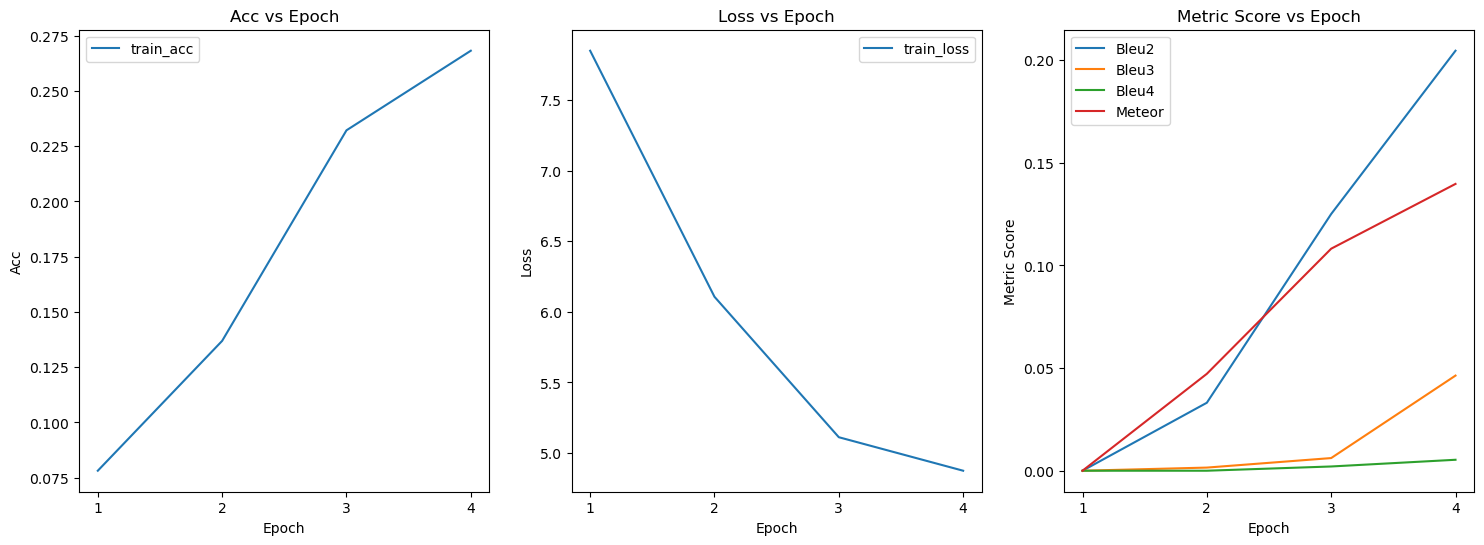
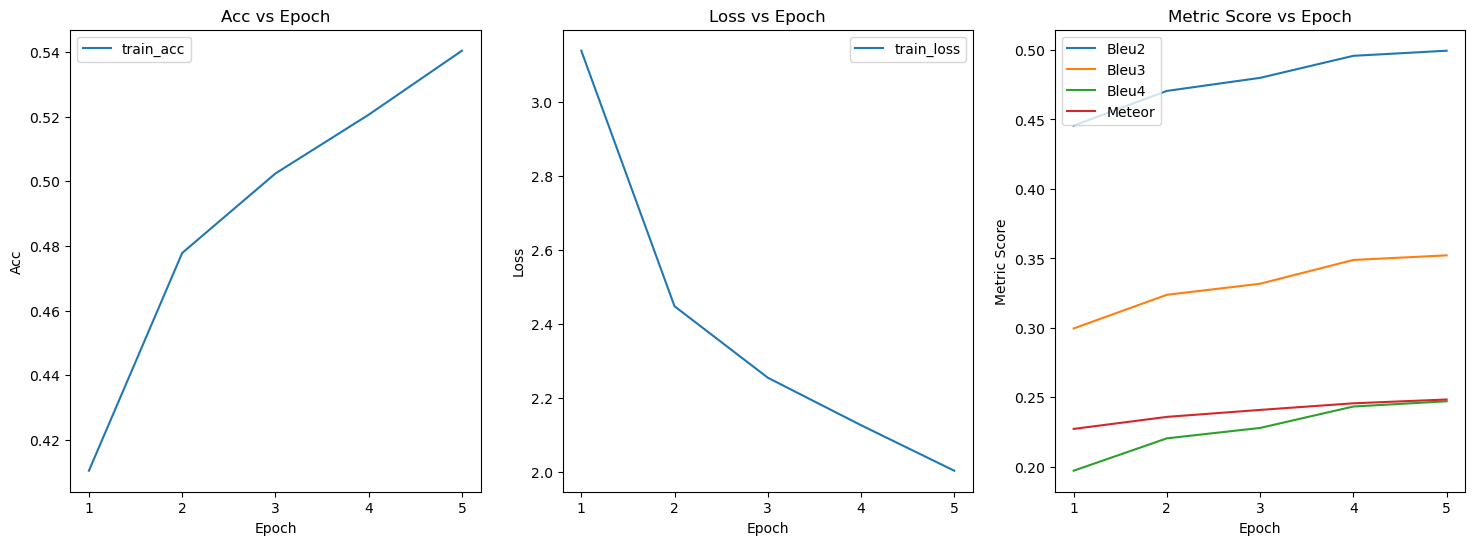
added evaluate code

diff --git a/train.py b/train.py
@@ -54,7 +54,7 @@ def plot_graphs(num_epochs, train_losses, train_acc, bleu2, bleu3, bleu4,val_met
     plt.savefig(fname, bbox_inches='tight')
     plt.show()
 
-def train_epoch(train_loader,device,encoder,decoder,enc_optimizer,dec_optimizer,criterion,vocab,epoch,embed_optimizer=None,enc_scheduler=None,dec_scheduler=None,view_train_captions=False):
+def train_epoch(train_loader,device,encoder,decoder,enc_optimizer,dec_optimizer,criterion,vocab,enc_scheduler=None,dec_scheduler=None,view_train_captions=False):
     epoch_loss = 0
     epoch_correct = 0
     epoch_words = 0
@@ -62,7 +62,6 @@ def train_epoch(train_loader,device,encoder,decoder,enc_optimizer,dec_optimizer,
         # zero the gradients
         enc_optimizer.zero_grad()
         dec_optimizer.zero_grad()
-        embed_optimizer.zero_grad()
 
         # set decoder and encoder to train mode
         encoder.train()
@@ -105,15 +104,13 @@ def train_epoch(train_loader,device,encoder,decoder,enc_optimizer,dec_optimizer,
         # Backward and optimize
         loss.backward()
         tqdm.write(_term_move_up()+str(loss.item()))
+
         dec_optimizer.step()
-        
-        
         #train pretrained stuff only after the first epoch
-        if epoch != 0:
-            enc_optimizer.step()
-            embed_optimizer.step()
+        enc_optimizer.step()
         #update lr
         dec_scheduler.step()
+        enc_scheduler.step()
 
         epoch_loss += loss.item()
         epoch_correct += correct
@@ -233,24 +230,22 @@ def main(args):
     #initial lr is chosen based on maxlr/50
     # maxlr is chosen to be maximum lr that gives lowest loss after ~500 batches
     enc_optimizer_lr = 1e-4 
-    dec_optimizer_lr = 0.004 #doesnt not matter in onecyclelr
-    embed_optimizer_lr = 1e-4
+    dec_optimizer_lr = 0.002 #doesnt not matter in onecyclelr
 
     # weight decay values copied from imagenet and seq2seq models
     #small lr as it is pretrained
-    enc_optimizer = optim.SGD(encoder.parameters(),lr=enc_optimizer_lr,momentum=0.9,weight_decay=1e-4)
-    #small lr for embed layer as it is pretrained except for a few words
-    embed_optimizer = optim.SGD(list(decoder.parameters())[:1],lr=embed_optimizer_lr,momentum=0.9,weight_decay=1e-7)
+    enc_optimizer = optim.SGD(encoder.parameters(),lr=enc_optimizer_lr,momentum=0.9,weight_decay=5e-5)
     #large learning rates for decoder
-    dec_optimizer = optim.SGD(list(decoder.parameters())[1:],lr=dec_optimizer_lr,momentum=0.9,weight_decay=1e-7)
+    dec_optimizer = optim.SGD(decoder.parameters(),lr=dec_optimizer_lr,momentum=0.9,weight_decay=1e-7)
     criterion = nn.CrossEntropyLoss()
 
     # Train the models
-    num_epochs = 4
+    num_epochs = 5
     view_train_captions = False # View train captions
     view_val_captions = False # View val captions
 
-    dec_scheduler = optim.lr_scheduler.OneCycleLR(dec_optimizer,max_lr=0.2,steps_per_epoch=len(train_loader),epochs=num_epochs)
+    dec_scheduler = optim.lr_scheduler.OneCycleLR(dec_optimizer,max_lr=0.1,steps_per_epoch=len(train_loader),epochs=num_epochs)
+    enc_scheduler = optim.lr_scheduler.OneCycleLR(enc_optimizer,max_lr=0.005,steps_per_epoch=len(train_loader),epochs=num_epochs)
     
     for epoch in range(num_epochs):
         train_loss = 0    
@@ -260,7 +255,7 @@ def main(args):
         val_correct = 0
         val_words = 0
 
-        train_loss,train_correct,train_words = train_epoch(train_loader,device,encoder,decoder,enc_optimizer,dec_optimizer,criterion,vocab,epoch=epoch,embed_optimizer=embed_optimizer,enc_scheduler=None,dec_scheduler=dec_scheduler,view_train_captions=view_train_captions)
+        train_loss,train_correct,train_words = train_epoch(train_loader,device,encoder,decoder,enc_optimizer,dec_optimizer,criterion,vocab,enc_scheduler=enc_scheduler,dec_scheduler=dec_scheduler,view_train_captions=view_train_captions)
         
         bleu2,bleu3,bleu4,meteor = val_epoch(val_loader,device,encoder,decoder,vocab,epoch,view_val_captions=view_val_captions)
 

diff --git a/eval.py b/eval.py
@@ -1,0 +1,49 @@
+import config
+import pickle
+from data_loader import get_loader,CocoDataset, get_loader_unique
+from build_vocab import Vocabulary
+from torchtext.data.metrics import bleu_score
+from MyCocoDataset import MyCocoCaptions
+from tqdm import tqdm
+from nltk.translate import meteor_score
+import torch
+import torchvision.transforms as transforms
+import nltk
+from torch import nn,optim
+from model import CNNfull,DecoderRNN
+from torch.nn.utils.rnn import pack_padded_sequence
+from tqdm import tqdm
+from train import val_epoch
+nltk.download('wordnet')
+
+with open(config.VOCAB_PATH, 'rb') as f:
+    vocab = pickle.load(f)
+vocab_size = len(vocab)
+
+def evaluate(encoder_model_path,decoder_model_path):
+    transformation = transforms.Compose([transforms.Resize((224,224)), 
+                                        transforms.ToTensor(),
+                                        transforms.Normalize((0.485, 0.456, 0.406), (0.229, 0.224, 0.225))
+                                        ])
+
+    VAL_LOADER_UNIQUE = {'root':config.VAL_IMG_PATH, 'json':config.VAL_JSON_PATH, 'batch_size':16, 'shuffle':False,'transform':transformation, 'num_workers':4}
+    val_loader_unique = get_loader_unique(**VAL_LOADER_UNIQUE)
+
+
+    device = torch.device("cuda" if torch.cuda.is_available() else "cpu") 
+
+    encoder = CNNfull(2048)
+    encoder.to(device)
+    decoder = DecoderRNN(2048,300,512,vocab_size)
+    decoder.to(device)
+    encoder.load_state_dict(torch.load(encoder_model_path))
+    decoder.load_state_dict(torch.load(decoder_model_path))
+    encoder.eval()
+    decoder.eval()
+
+    device = torch.device("cuda" if torch.cuda.is_available() else "cpu") 
+    bleu2,bleu3,bleu4,meteor = val_epoch(val_loader_unique,device,encoder,decoder,vocab,0,enc_scheduler=None,dec_scheduler=None,view_val_captions=False)
+    print(f'Bleu2 score:{bleu2}')
+    print(f'Bleu3 score:{bleu3}')
+    print(f'Bleu4 score:{bleu4}')
+    print(f'Meteor score:{meteor}')

diff --git a/model_beam_inference.py b/model_beam_inference.py
@@ -171,6 +171,7 @@ class DecoderRNN(nn.Module):
                 preds = self.fc(h)  # (batch_size_t, vocab_size)
 
                 predictions[:, t, :] = preds
+                preds = F.softmax(preds)
                 preds = preds.argmax(dim=1)
 
                 embeddings = self.embed(preds)
